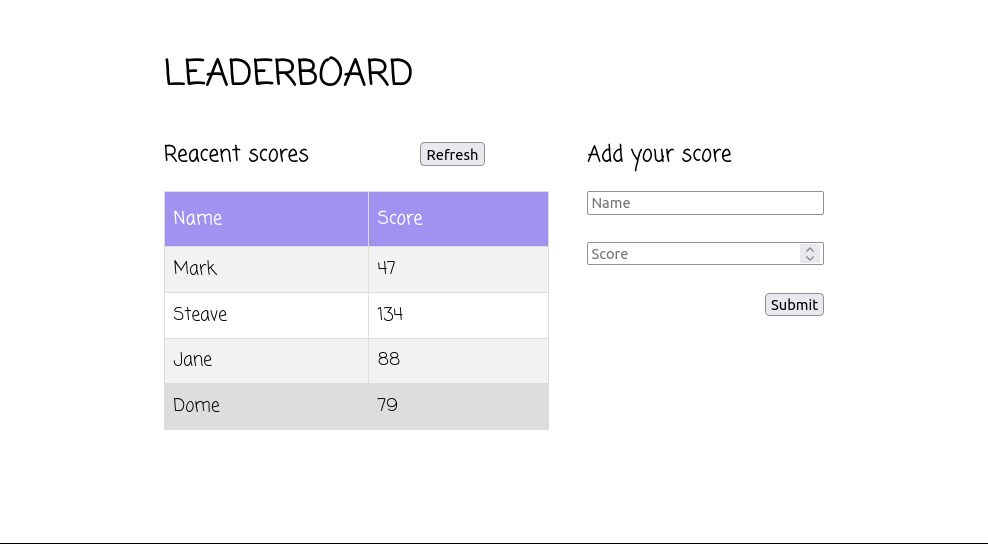
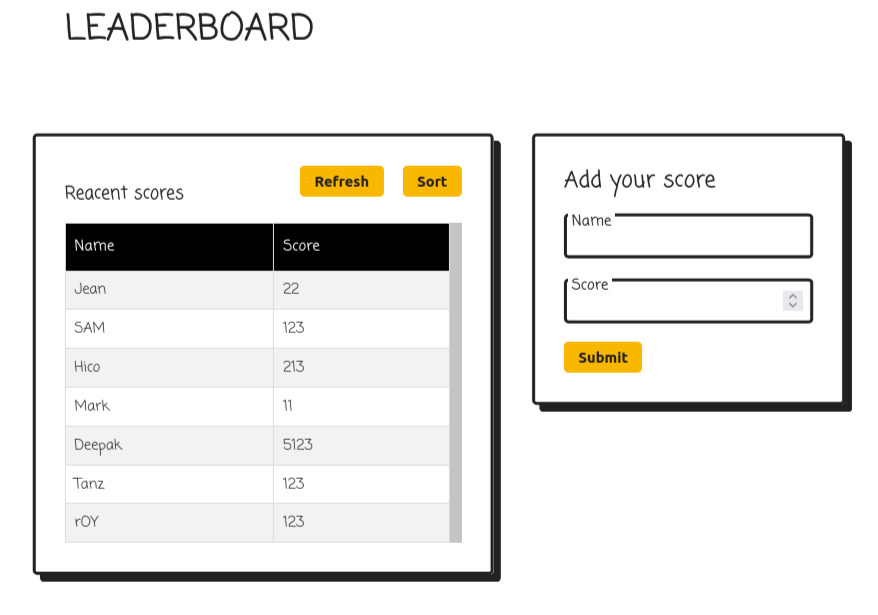
UI: design changed

diff --git a/src/index.html b/src/index.html
@@ -10,31 +10,47 @@
 <body>
     <main>
         <section id="boardDisplay">
-            <h1 id="boardTitle">
-                LEADERBOARD
-            </h1>
-            <h3>Reacent scores</h3>
-            <div id="refreshDiv">
-                <button id="refreshBtn" type="button">Refresh</button>
-                <button id="sortBtn" type="button">Sort</button>
+            <div class="card">
+                <h1 id="boardTitle">
+                    LEADERBOARD
+                </h1>
+                <h3>Reacent scores</h3>
+                <div id="btnsDiv">
+                    <button id="refreshBtn" type="button">Refresh</button>
+                    <button id="sortBtn" type="button">Sort</button>
+                </div>
+                <div class="tableScroll">
+                    <table id="table">
+                        <tr>
+                            <th>Name</th>
+                            <th>Score</th>
+                        </tr>
+                    </table>
+                </div>
             </div>
-            <table id="table">
-                <tr>
-                    <th>Name</th>
-                    <th>Score</th>
-                </tr>
-            </table>
         </section>
         <section id="boardForm">
-            <h3>Add your score</h3>
-            <form id="scoreForm">
-                <input type="text" name="username" id="nameInput" placeholder="Name" required>
-                <input type="number" name="score" id="scoreInput" placeholder="Score" required>
-                <input type="submit" value="Submit" id="submitBtn">
-            </form>
+            <div class="card">
+                <h2>Add your score</h2>
+                <form id="scoreForm">
+                    <label class="input">
+                        <input class="input__field" type="text" name="username" id="nameInput" placeholder=" " required>
+                        <span class="input__label">Name</span>
+                    </label>
+                    <br>
+                    <label class="input">
+                        <input class="input__field" type="number" name="score" id="scoreInput" placeholder=" " required>
+                        <span class="input__label">Score</span>
+                    </label>
+                    <div class="button-group">
+                        <button type="submit" value="Submit" id="submitBtn">Submit</button>
+                    </div>
+                </form>
+            </div>
             <div id="errors">
             </div>
         </section>
+
     </main>
 </body>
 

diff --git a/src/card.scss b/src/card.scss
@@ -1,0 +1,117 @@
+@import url('https://rsms.me/inter/inter.css');
+
+.darkmode--activated {
+  color: black
+}
+
+:root {
+  --color-light: white;
+  --color-dark: #212121;
+  --color-signal: #fab700;
+  
+  --color-background: var(--color-light);
+  --color-text: var(--color-dark);
+  --color-accent: var(--color-signal);
+  
+  --size-bezel: .5rem;
+  --size-radius: 4px;
+  
+  line-height: 1.4;
+  
+  font-size: calc(.6rem + .4vw);
+  color: var(--color-text);
+  background: var(--color-background);
+  font-weight: 300;
+  padding: 0 calc(var(--size-bezel) * 3);
+}
+
+mark {
+  background: var(--color-accent);
+  color: var(--color-text);
+  font-weight: bold;
+  padding: 0 0.2em;
+}
+
+.card {
+  background: var(--color-background);
+  padding: calc(4 * var(--size-bezel));
+  margin-top: calc(4 * var(--size-bezel));
+  border-radius: var(--size-radius);
+  border: 3px solid var(--color-shadow, currentColor);
+  box-shadow: .5rem .5rem 0 var(--color-shadow, currentColor);
+  
+  *:first-child {
+    margin-top: 0;
+  }
+}
+
+.input {
+  position: relative;
+  
+  &__label {
+    position: absolute;
+    left: 0;
+    top: 0;
+    padding: calc(var(--size-bezel) * 0.75) calc(var(--size-bezel) * .5);
+    margin: calc(var(--size-bezel) * 0.75 + 3px) calc(var(--size-bezel) * .5);
+    background: pink;
+    white-space: nowrap;
+    transform: translate(0, 0);
+    transform-origin: 0 0;
+    background: var(--color-background);
+    transition: transform 120ms ease-in;
+    font-weight: bold;
+    line-height: 1.2;
+  }
+  &__field {
+    box-sizing: border-box;
+    display: block;
+    width: 100%;
+    border: 3px solid currentColor;
+    padding: calc(var(--size-bezel) * 1.5) var(--size-bezel);
+    color: currentColor;
+    background: transparent;
+    border-radius: var(--size-radius);
+    
+    &:focus,
+    &:not(:placeholder-shown) {
+      & + .input__label {
+        transform: translate(.25rem, -65%) scale(.8);
+        color: var(--color-accent);
+      }
+    }
+  }
+}
+
+
+.button-group {
+  margin-top: calc(var(--size-bezel) * 2.5);
+}
+
+button {
+  color: currentColor;
+  padding: var(--size-bezel) calc(var(--size-bezel) * 2);
+  background: var(--color-accent);
+  border: none;
+  border-radius: var(--size-radius);
+  font-weight: 900;
+  
+  &[type=reset]{
+    background: var(--color-background);
+    font-weight: 200;
+  } 
+}
+
+button + button {
+  margin-left: calc(var(--size-bezel) * 2);
+}
+
+.icon {
+  display: inline-block;
+  width: 1em; height: 1em;
+  margin-right: .5em;
+}
+
+.hidden {
+  display: none;
+}

diff --git a/src/style.scss b/src/style.scss
@@ -20,23 +20,25 @@ main {
 
   #boardDisplay {
     justify-self: end;
-    width: 350px;
-    // height: 500px;
-    overflow-y: scroll;
-    overflow-x: hidden;
-    display: grid;
-    grid-template-columns: 50% 50%;
-    grid-template-rows: auto auto auto;
 
+    h3 {
+      display: inline-block;
+    }
+
+    .tableScroll{
+      max-height: 400px;
+      overflow-y: scroll;
+    }
+    
     #boardTitle {
       position: absolute;
       top: -90px;
       font-size: xx-large;
     }
 
-    #refreshDiv {
-      justify-self: center;
-      align-self: center;
+    #btnsDiv {
+      display: inline;
+      float: right;
     }
 
     #table {
@@ -56,7 +58,7 @@ main {
         padding-top: 12px;
         padding-bottom: 12px;
         text-align: left;
-        background-color: #a092f0;
+        background-color: #000000;
         color: white;
       }
 
@@ -76,11 +78,6 @@ main {
     justify-self: start;
 
     #scoreForm {
-      display: grid;
-      grid-template-columns: auto auto;
-      grid-template-rows: auto auto auto;
-      grid-gap: 25px;
-
       #nameInput {
         grid-row: 1 / 2;
         grid-column: 1 / 3;
@@ -98,6 +95,8 @@ main {
     }
 
     #errors {
+      position: relative;
+      top: 20px;
       color: rgb(255, 0, 0);
       font-size: large;
     }

diff --git a/src/index.js b/src/index.js
@@ -1,4 +1,5 @@
 import './style.scss';
+import './card.scss';
 import './modules/darkmode.js';
 import { getGameIdLocal, setGameLocal } from './modules/storage';
 import { showData, updateTable } from './modules/display.js';

diff --git a/README.md b/README.md
@@ -54,7 +54,8 @@ Give a ⭐ if you like this project!
 
 ## Acknowledge
 
- - Thanks to Wogan from [stackoverflow](https://stackoverflow.com/questions/1129216/sort-array-of-objects-by-string-property-value#:~:text=it's%20easy%20enough%20to%20write%20your%20own%20comparison%20function%3A) on how to sort Array of objects bassed on a property.
+- Thanks to [Wogan](https://stackoverflow.com/questions/1129216/sort-array-of-objects-by-string-property-value#:~:text=it's%20easy%20enough%20to%20write%20your%20own%20comparison%20function%3A) on how to sort Array of objects bassed on a property.
+- Thanks to [meodai](https://codepen.io/meodai/pen/rNedxBa) for the cards design.  
 
 ## 📝 License
 
